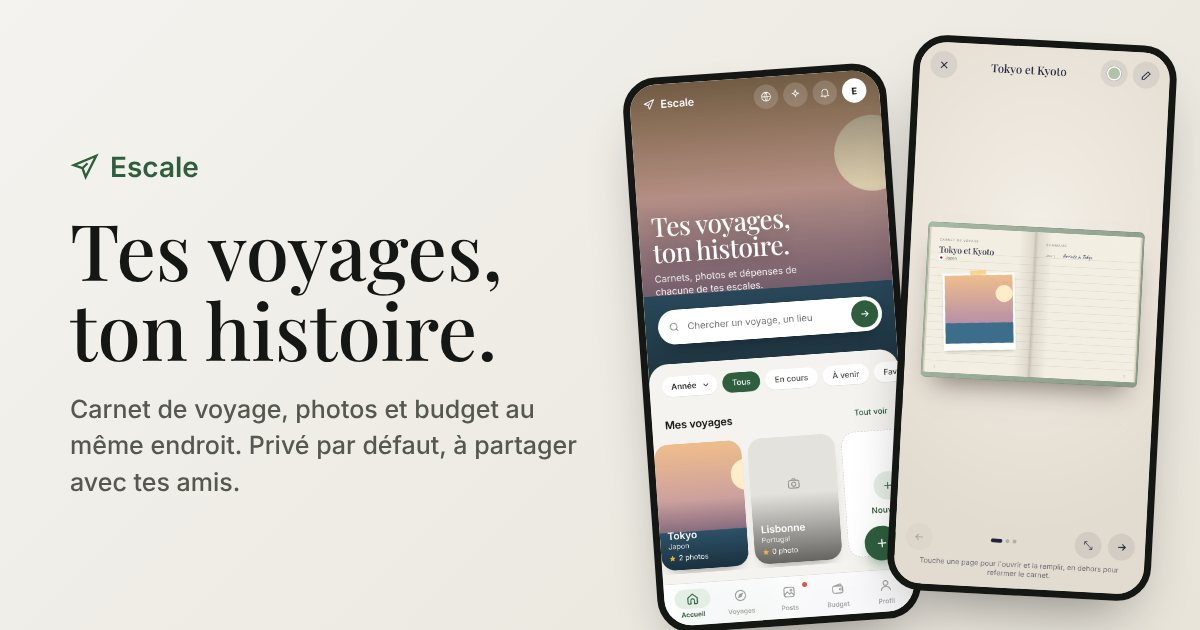
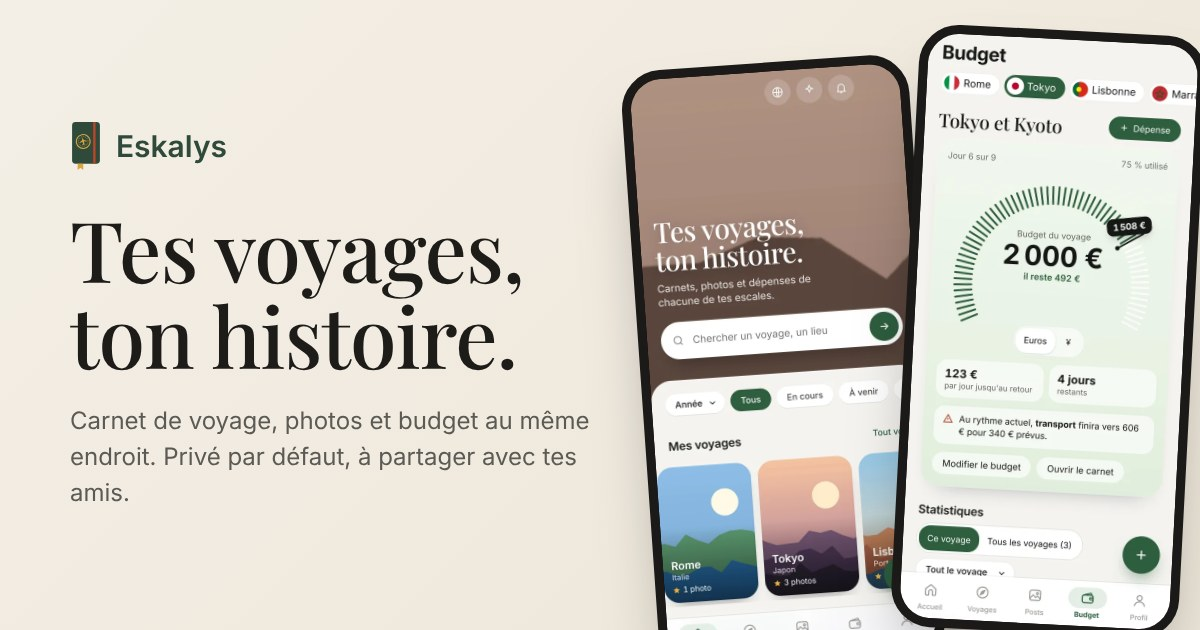
Alerte budget à 80 % et au dépassement (réglable dans Notifications), nouvelle image d'aperçu des liens Eskalys
Claude-Session: https://claude.ai/code/session_01FgCiP4bnWUXaZYpAQVwc7g

diff --git a/js/ui.js b/js/ui.js
@@ -13,6 +13,19 @@ const currentTrip = () => S.trips.find(t => info(t).enCours) || null;
 function budgetsOf(t) { if (t.budgets) return t.budgets; const b = {}; Object.keys(CATS).forEach(k => b[k] = Math.round(t.budget * CATS[k].pct)); return b; }
 function catsOf(t) { const c = {}; Object.keys(CATS).forEach(k => c[k] = 0); t.depenses.forEach(d => c[d.c] += myPart(d)); return c; }
 const spentOf = t => Object.values(catsOf(t)).reduce((a, b) => a + b, 0);
+/* Alerte budget : un message à 80 % du budget, un autre au dépassement, une seule fois par seuil et par voyage.
+   Réglable dans Notifications (« Alerte budget »). Si le budget remonte ou si des dépenses sont retirées, l'alerte se réarme. */
+function budgetCheck(t) { try {
+  if (!t || !(Number(t.budget) > 0)) return; const p = (SETTINGS && SETTINGS.push_prefs) || {}; if (p.budget === false) return;
+  const k = 'escale:ba:' + t.id, r = spentOf(t) / Number(t.budget), lvl = r >= 1 ? 2 : r >= .8 ? 1 : 0;
+  let was = 0; try { was = +localStorage.getItem(k) || 0; } catch (_) { }
+  try { localStorage.setItem(k, String(lvl)); } catch (_) { }
+  if (lvl <= was) return; const nom = t.ville || ((typeof COUNTRIES !== 'undefined' && COUNTRIES[t.pays] && COUNTRIES[t.pays].n) || 'ce voyage');
+  const msg = lvl === 2 ? `${nom} : ${fmt(spentOf(t))} dépensés sur ${fmt(+t.budget)} prévus` : `Tu as utilisé ${Math.round(r * 100)} % du budget de ${nom}, il reste ${fmt(+t.budget - spentOf(t))}`;
+  setTimeout(() => { const d = document.createElement('div'); d.className = 'balert' + (lvl === 2 ? ' over' : ''); d.setAttribute('role', 'alert');
+    d.innerHTML = `<b>${lvl === 2 ? 'Budget dépassé' : 'Attention au budget'}</b><span>${esc(msg)}</span>`; d.onclick = () => d.remove();
+    $('phone').appendChild(d); setTimeout(() => d.classList.add('out'), 5200); setTimeout(() => d.remove(), 5800); }, 900);
+} catch (_) { } }
 function daysOf(t) { const n = Math.max(1, info(t).jour || info(t).jours), a = Array(n).fill(0); t.depenses.forEach(d => { if (d.c !== 'logement' && d.j <= n) a[d.j - 1] += myPart(d); }); return a; }
 function projection(t) { const f = info(t); if (!f.enCours) return {}; const c = catsOf(t), b = budgetsOf(t); let worst = null;
   const once = {}; t.depenses.forEach(d => { if (d.c === 'transport' && ['avion', 'train', 'voiture', 'bateau'].includes(d.s)) once[d.c] = (once[d.c] || 0) + myPart(d); });
@@ -256,7 +269,7 @@ function expSheet(tid, eid, lock, pre) {
       const j1 = +p.querySelector('#e-day').value, j2 = MULTI[cat] && stay !== '1' && +p.querySelector('#e-day2').value > j1 ? +p.querySelector('#e-day2').value : null;
       if (MULTI[cat] && stay === 'n' && !j2) { toast(cat === 'logement' ? 'Choisis une dernière nuit après la première' : 'Choisis un dernier jour après le premier'); return; }
       const rec = { j: j1, j2, s: sub, l: p.querySelector('#e-lbl').value.trim().slice(0, 80) || (sub ? SUBS[cat][sub] : CATS[cat].n), c: cat, m: cleanMerchant(p.querySelector('#e-mer').value), v: cur === 'E' ? null : v, cur: cur === 'X' ? xcur : null, eur, by: M.length ? by : 'me', split: shared ? split : null };
-      if (d) { Object.assign(d, rec); save(); closePanel(); refresh(); toast(navigator.onLine ? 'Dépense mise à jour' : 'Dépense mise à jour sur ton téléphone'); return; }
+      if (d) { Object.assign(d, rec); save(); closePanel(); refresh(); toast(navigator.onLine ? 'Dépense mise à jour' : 'Dépense mise à jour sur ton téléphone'); budgetCheck(t); return; }
       t.depenses.push({ id: uid(), ...rec, at: new Date().toISOString() }); save(); flyAndDone(rec, t);
     };
     const del = p.querySelector('#e-del'); if (del) del.onclick = () => confirmIn(p, 'Supprimer cette dépense ?', () => { t.depenses = t.depenses.filter(x => x.id !== d.id); save(); closePanel(); refresh(); toast('Dépense supprimée'); });
@@ -266,7 +279,7 @@ function flyAndDone(rec, t) {
   const ph = $('phone').getBoundingClientRect(), from = $('e-ok').getBoundingClientRect(), nb = document.querySelector('nav [data-go=depenses]'), to = nb.getBoundingClientRect();
   const f = document.createElement('div'); f.className = 'flyer num'; f.textContent = (rec.v != null ? fmtD(rec, t) : fmt(rec.eur)) + '  ' + rec.l; $('phone').appendChild(f);
   f.style.left = (from.left - ph.left + from.width / 2 - 70) + 'px'; f.style.top = (from.top - ph.top - 40) + 'px'; closePanel();
-  const done = () => { f.remove(); nb.classList.remove('ping'); void nb.offsetWidth; nb.classList.add('ping'); depId = t.id; if (current === 'carnet' && openId === t.id) openTrip(t.id, true); else if (current === 'depenses') renderDepenses(true); else go('depenses'); toast(navigator.onLine ? 'Dépense ajoutée' : 'Dépense notée, elle partira au retour du réseau'); };
+  const done = () => { f.remove(); nb.classList.remove('ping'); void nb.offsetWidth; nb.classList.add('ping'); depId = t.id; if (current === 'carnet' && openId === t.id) openTrip(t.id, true); else if (current === 'depenses') renderDepenses(true); else go('depenses'); toast(navigator.onLine ? 'Dépense ajoutée' : 'Dépense notée, elle partira au retour du réseau'); budgetCheck(t); };
   if (window.gsap && !REDUCED && !document.querySelector('nav').hidden) gsap.timeline({ onComplete: done }).to(f, { y: -60, rotation: -5, scale: 1.08, duration: .35, ease: 'power2.out' }).to(f, { x: to.left - from.left + to.width / 2 - from.width / 2, y: to.top - from.top + 40, scale: .2, opacity: 0, duration: .6, ease: 'power2.in' });
   else done();
 }

diff --git a/sw.js b/sw.js
@@ -1,6 +1,6 @@
 /* Eskalys : fonctionnement hors connexion. Seuls les fichiers de l'appli sont mis en cache ;
  * les données personnelles et les photos ne passent jamais par ce cache. */
-const VERSION = 'escale-v2.9.10';
+const VERSION = 'escale-v2.9.11';
 const SHELL = ['./', 'index.html', 'css/app.css', 'css/fonts.css', 'css/dark.css', 'css/dark-extra.css', 'icons/logo.svg', 'js/theme.js', 'js/opening.js', 'js/config.js', 'js/world.js', 'js/ref.js', 'js/countries-all.js', 'js/places.js', 'js/conseils.js', 'js/conseils-monde.js', 'js/combo.js', 'js/store.js', 'js/ui.js', 'js/conseil-ui.js', 'js/board.js', 'js/scan.js', 'js/missions.js', 'js/monde.js', 'js/prix.js', 'js/simu.js', 'js/comptes.js', 'js/stats.js', 'js/social.js', 'js/itineraire.js', 'js/defis-plus.js', 'js/deco.js', 'js/journal.js', 'js/shelf.js', 'js/gestes.js', 'js/plus.js', 'js/guide.js', 'js/avis.js', 'js/push.js', 'js/groupe.js', 'js/cout.js', 'js/passeport.js', 'js/invite.js', 'js/auth.js',
   'vendor/supabase.js', 'vendor/gsap.min.js', 'vendor/d3.min.js', 'vendor/topojson-client.min.js', 'vendor/jszip.min.js', 'manifest.webmanifest', 'icons/icon-192.png',
   'fonts/inter-latin-400-normal.woff2', 'fonts/inter-latin-500-normal.woff2', 'fonts/inter-latin-600-normal.woff2', 'fonts/inter-latin-700-normal.woff2', 'fonts/playfair-display-latin-500-normal.woff2'];

diff --git a/js/push.js b/js/push.js
@@ -19,8 +19,8 @@
   window.pushReady = async () => supported() && Notification.permission === 'granted' && !!(await subscription());
   window.pushCanAsk = () => supported() && Notification.permission === 'default';
 
-  const CATS = [['defis', 'Défis', 'Un ami te lance un défi ou relève le tien'], ['social', 'Réactions et commentaires', 'Sur tes publications'], ['amis', 'Amis', 'Demandes d’ami et acceptations']];
-  const prefs = () => Object.assign({ defis: true, social: true, amis: true }, (typeof SETTINGS !== 'undefined' && SETTINGS && SETTINGS.push_prefs) || {});
+  const CATS = [['defis', 'Défis', 'Un ami te lance un défi ou relève le tien'], ['social', 'Réactions et commentaires', 'Sur tes publications'], ['amis', 'Amis', 'Demandes d’ami et acceptations'], ['budget', 'Alerte budget', 'À 80 % du budget d’un voyage, puis s’il est dépassé']];
+  const prefs = () => Object.assign({ defis: true, social: true, amis: true, budget: true }, (typeof SETTINGS !== 'undefined' && SETTINGS && SETTINGS.push_prefs) || {});
   ACT.setNotifs = async () => {
     const on = await window.pushReady(), p = prefs();
     let head;

diff --git a/css/app.css b/css/app.css
@@ -2771,3 +2771,8 @@ input[type=date]::-webkit-date-and-time-value{text-align:left}
 .sm-price input{width:64px}
 .sm,.avis,.bud-form{max-width:100%;overflow-x:hidden}
 .sm-l input,.sm-l select{width:100%;min-width:0}
+
+.balert{position:absolute;left:14px;right:14px;top:calc(env(safe-area-inset-top,0px) + 14px);z-index:90;background:#FFF7E6;border:1px solid #E8C77A;color:#5a4310;border-radius:16px;padding:12px 14px;box-shadow:0 12px 30px -12px rgba(0,0,0,.35);display:flex;flex-direction:column;gap:2px;font-size:.85rem;animation:balin .35s ease;transition:opacity .5s,transform .5s;cursor:pointer}
+.balert b{font-size:.92rem}.balert.over{background:#FCEBE6;border-color:#E3A08F;color:#7a2a17}.balert.out{opacity:0;transform:translateY(-10px)}
+@keyframes balin{from{opacity:0;transform:translateY(-12px)}}
+html[data-theme="dark"] .balert{background:#3a3220;color:#F4E6C4;border-color:#6b5a2a}html[data-theme="dark"] .balert.over{background:#3d241d;color:#F6D5CB;border-color:#7a3b2b}
